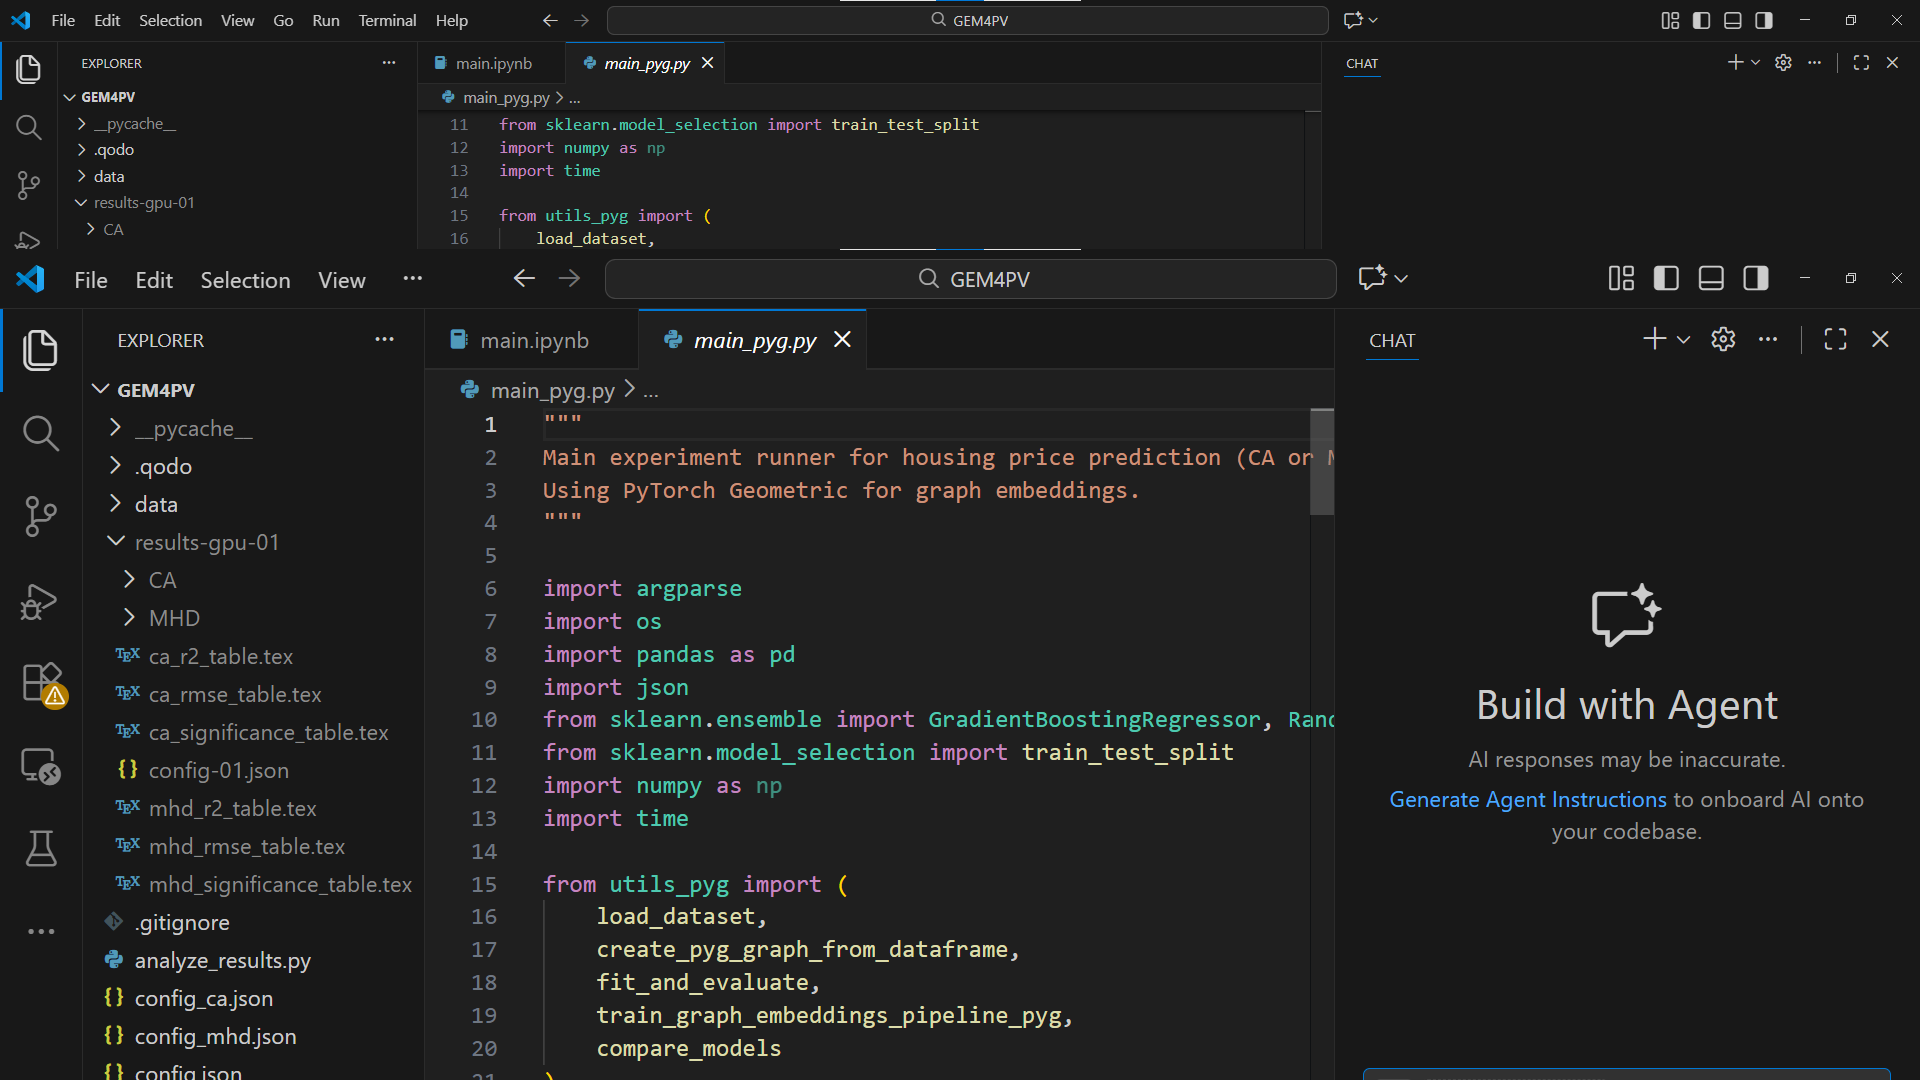
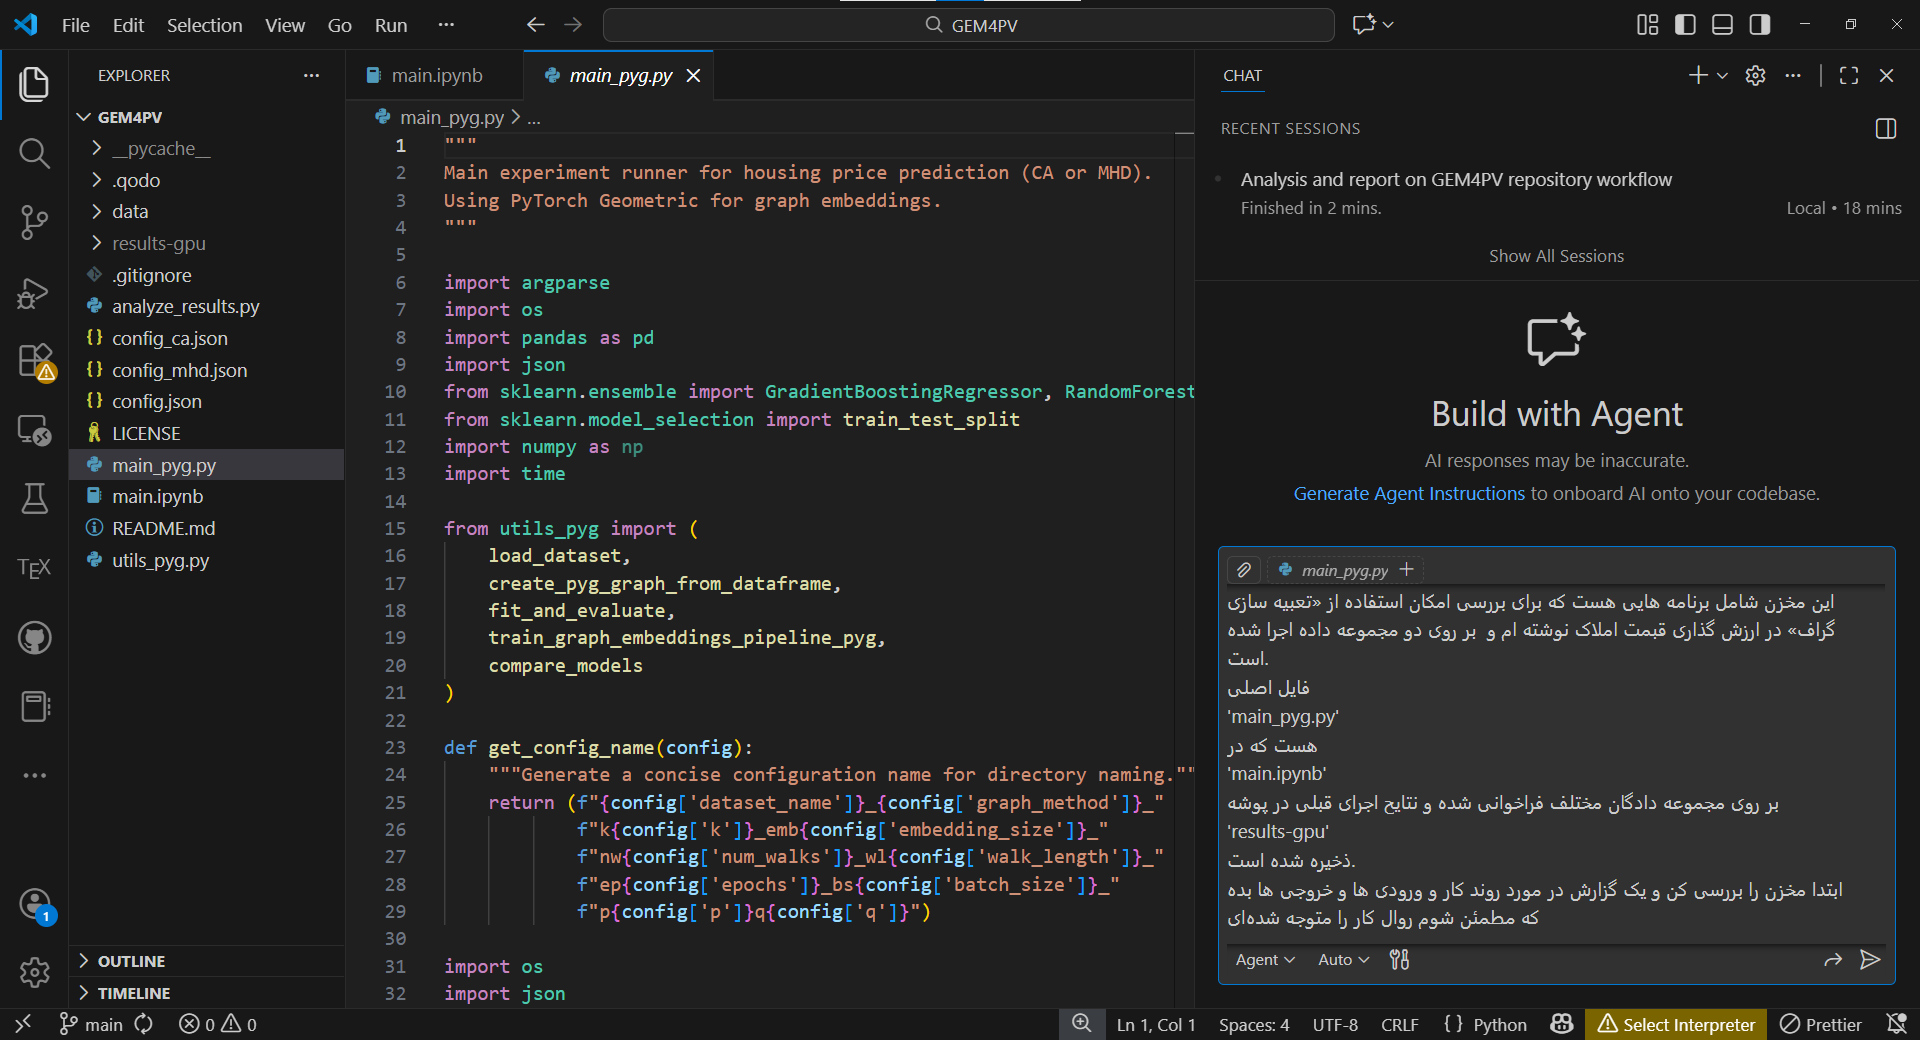
Add paper generation steps

diff --git a/README.md b/README.md
@@ -784,13 +784,17 @@ https://movieflow.ai/signup?inviteCode=ZCKDT14H
 
 ---
 
-پرامپت اول:
+# پرامپت اول:
 
 این مخزن شامل برنامه هایی هست که برای بررسی امکان استفاده از «تعبیه سازی گراف» در ارزش گذاری قبمت املاک نوشته ام و  بر روی دو مجموعه داده اجرا شده است.
 فایل اصلی 'main_pyg.py' هست که در  'main.ipynb'
 بر روی مجموعه دادگان مختلف فراخوانی شده و نتایح اجرای قبلی در پوشه
 'results-gpu' ذخیره شده است.
 ابتدا مخزن را بررسی کن و یک گزارش در مورد روند کار و ورودی ها و خروجی ها بده که مطمئن شوم روال کار را متوجه شدهای
+
+---
+
+![bg](img/copilot/02-first-response.png)
 
 ---
 
@@ -801,7 +805,7 @@ https://movieflow.ai/signup?inviteCode=ZCKDT14H
   padding-right: 10px; /* برای اسکرول بار */
 ">
   <img 
-    src="img/copilot/copilot-first-response.png" 
+    src="img/copilot/03-copilot-first-response.png" 
     alt="تصویر با جزئیات"
     style="
       width: 100%;
@@ -827,6 +831,64 @@ https://movieflow.ai/signup?inviteCode=ZCKDT14H
 </div>
 
 ---
+
+# پیشنهاد عنوان مقاله 
+
+شما اکنون به کل این مخزن کد دسترسی دارید و ساختار پروژه، هدف آن، روشها و نتایج قابل استخراج از کد را تحلیل کردهاید. لطفاً با توجه به محتوای این مخزن، چند عنوان دقیق، فنی، و مناسب برای یک مقاله پژوهشی در حوزه مرتبط پیشنهاد بده. عناوین باید به زبان انگلیسی باشند و بازتابدهنده نوآوریها، هدف پروژه، و روش پیادهسازی موجود در این کد باشند. لطفاً 3 تا 5 عنوان پیشنهادی ارائه کن.
+
+---
+
+<!-- html -->
+<div style="
+  height: 100vh;
+  overflow-y: auto;
+  padding-right: 10px; /* برای اسکرول بار */
+">
+  <img 
+    src="img/copilot/04-title-suggestion.png" 
+    alt="تصویر با جزئیات"
+    style="
+      width: 100%;
+      height: auto;
+      min-height: 5000px;
+      object-fit: contain;
+    "
+  >
+</div>
+
+<div style="
+  position: fixed;
+  bottom: 20px;
+  left: 20px;
+  background: rgba(0, 122, 204, 0.9);
+  color: white;
+  padding: 10px 15px;
+  border-radius: 8px;
+  font-size: 0.9em;
+  z-index: 100;
+">
+  🔽 برای دیدن جزئیات به پایین اسکرول کنید
+</div>
+
+---
+
+![bg](img/copilot/05-creating-paper.png)
+
+---
+
+![bg](img/copilot/06-created-paper-page1.png)
+
+---
+
+![bg](img/copilot/07-created-paper-page2.png)
+
+---
+
+به عنوان یک داور انگلیسی زبان رشته کامپیوتر دو ایراد بر این مقاله بگیر  
+
+---
+
+
 
 ## دموی عملی: پرامپت نویسی
 
